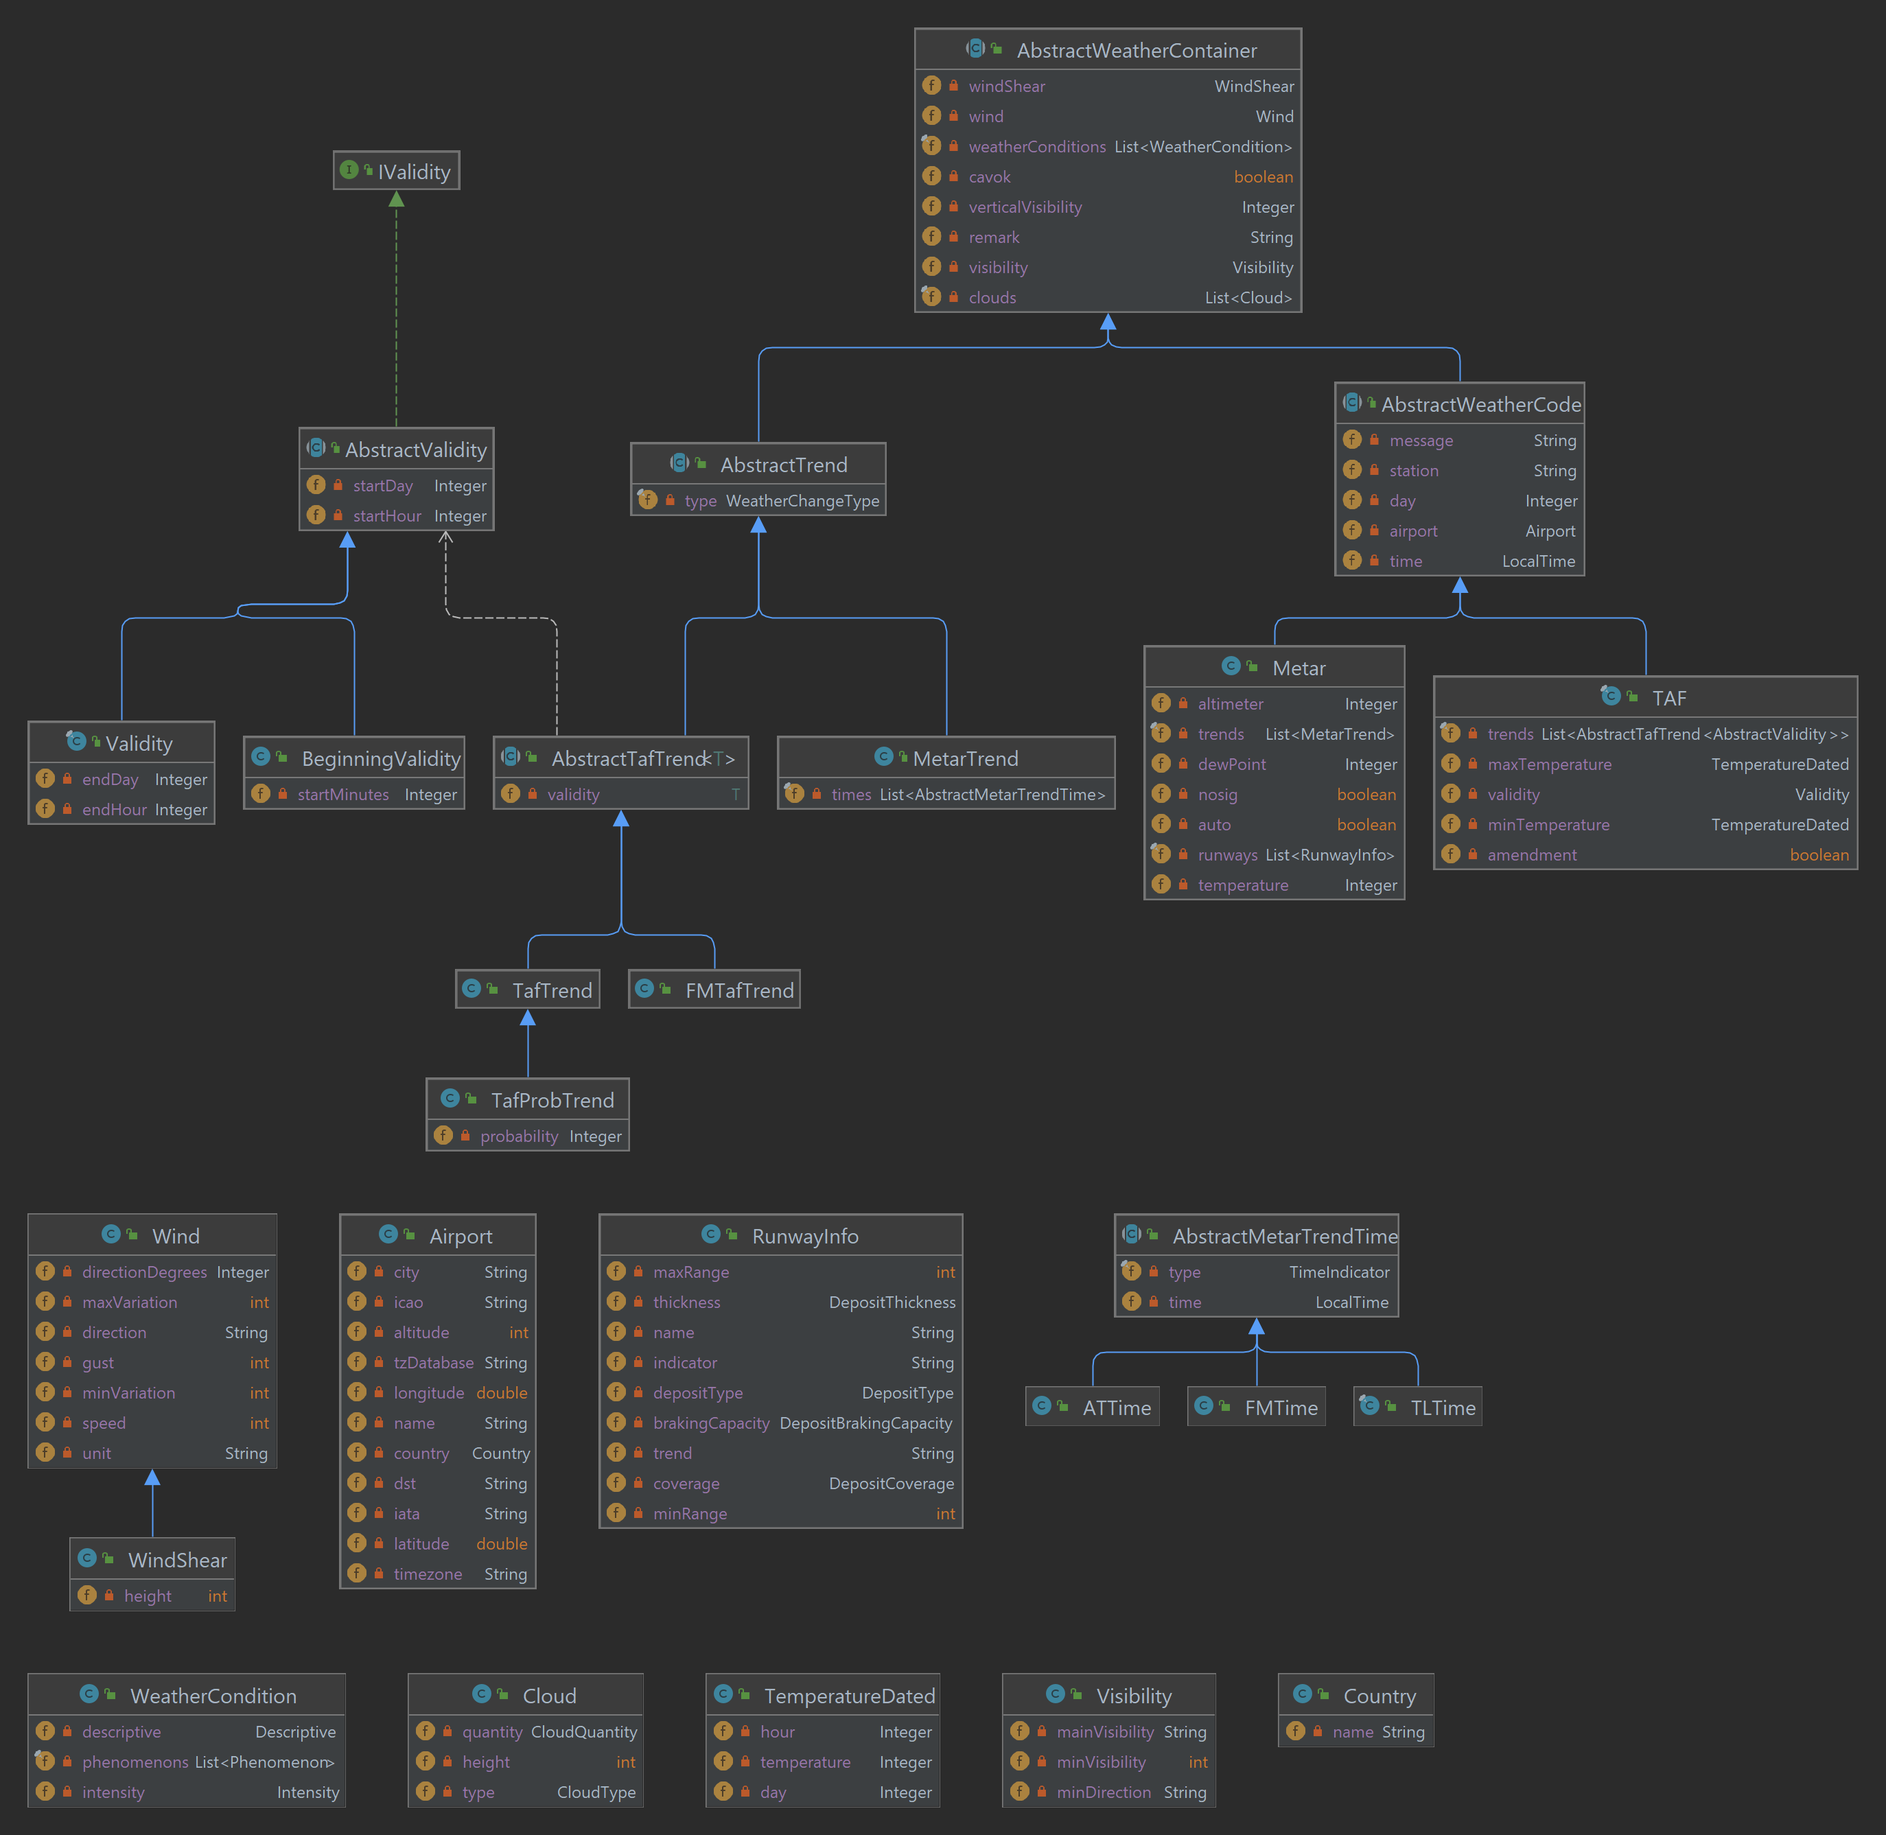
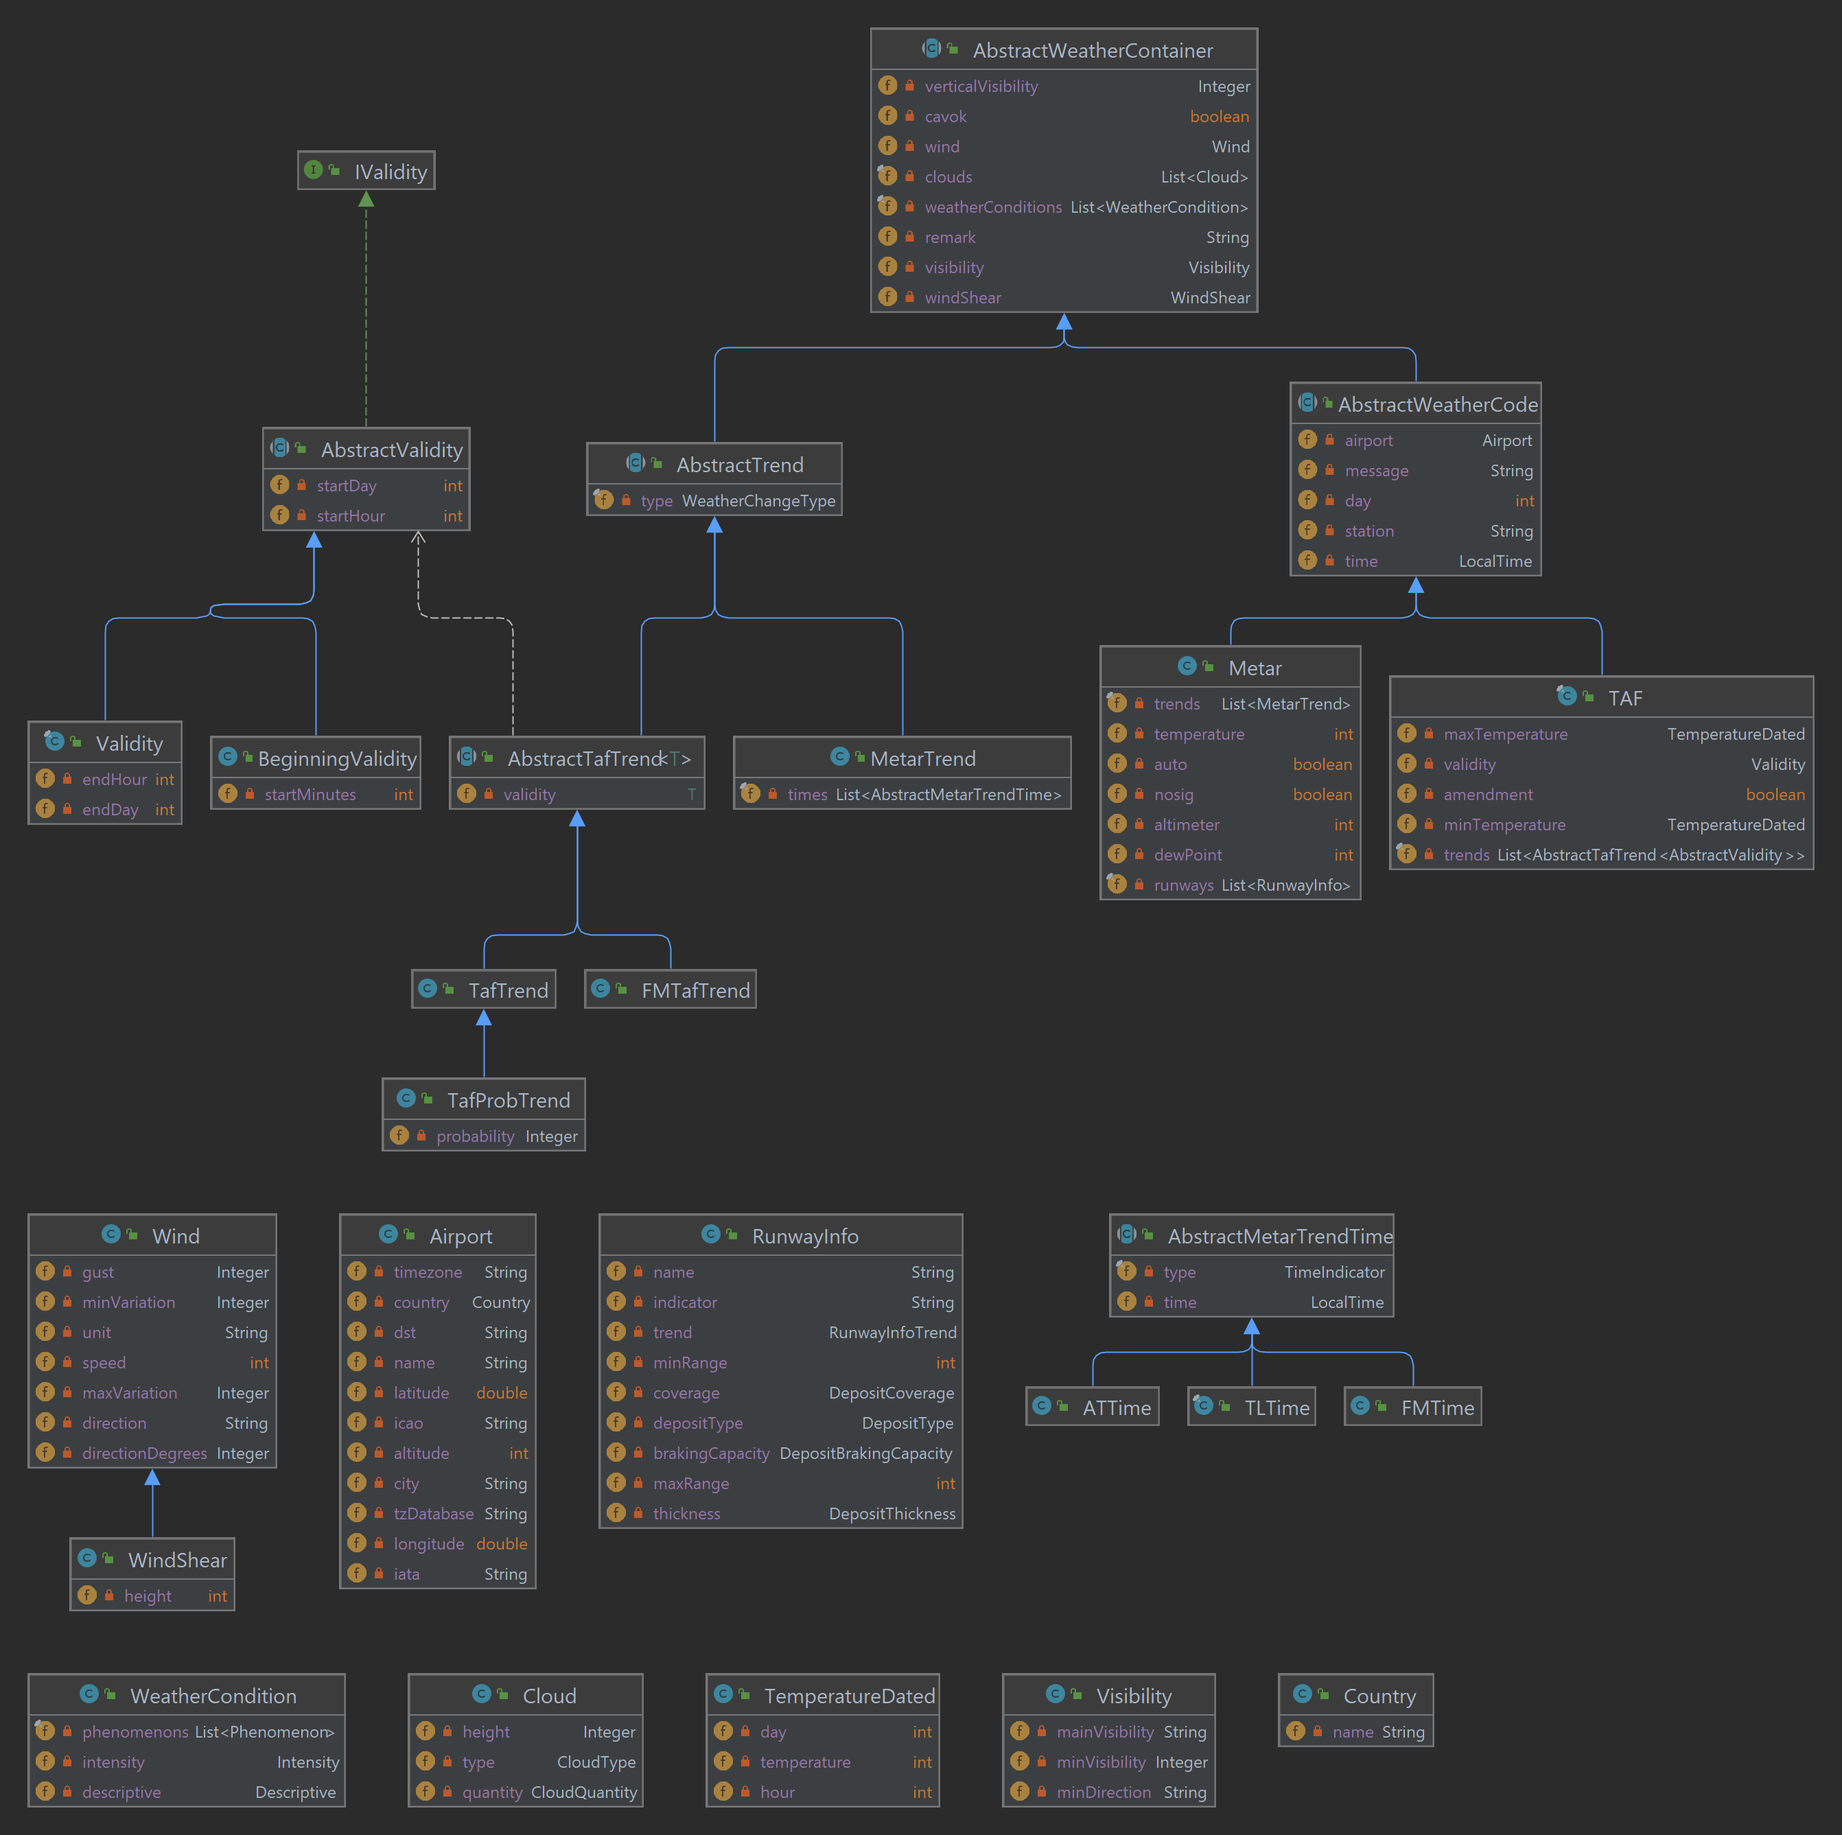
Made RunwayInfo.trend an enum: RunwayInfoTrend.
Removed method Converter.convertTrend

diff --git a/metarParser-parsers/src/test/java/io/github/mivek/command/metar/RunwayCommandTest.java b/metarParser-parsers/src/test/java/io/github/mivek/command/metar/RunwayCommandTest.java
@@ -1,20 +1,21 @@
 package io.github.mivek.command.metar;
 
+import static org.hamcrest.MatcherAssert.assertThat;
+import static org.hamcrest.Matchers.hasSize;
+import static org.junit.jupiter.api.Assertions.assertEquals;
+import static org.junit.jupiter.api.Assertions.assertNotNull;
+import static org.junit.jupiter.api.Assertions.assertNull;
+
 import io.github.mivek.enums.DepositBrakingCapacity;
 import io.github.mivek.enums.DepositCoverage;
 import io.github.mivek.enums.DepositThickness;
 import io.github.mivek.enums.DepositType;
+import io.github.mivek.enums.RunwayInfoTrend;
 import io.github.mivek.internationalization.Messages;
 import io.github.mivek.model.Metar;
 import io.github.mivek.model.RunwayInfo;
 import org.junit.jupiter.api.BeforeEach;
 import org.junit.jupiter.api.Test;
-
-import static org.hamcrest.MatcherAssert.assertThat;
-import static org.hamcrest.Matchers.emptyString;
-import static org.hamcrest.Matchers.hasSize;
-import static org.junit.jupiter.api.Assertions.assertEquals;
-import static org.junit.jupiter.api.Assertions.assertNotNull;
 
 /**
  * @author mivek
@@ -39,7 +40,7 @@ class RunwayCommandTest {
         assertNotNull(ri);
         assertEquals("26", ri.getName());
         assertEquals(600, ri.getMinRange());
-        assertEquals(Messages.getInstance().getString("Converter.U"), ri.getTrend());
+        assertEquals(RunwayInfoTrend.UPRISING, ri.getTrend());
     }
 
     @Test
@@ -54,7 +55,7 @@ class RunwayCommandTest {
         assertEquals("26L", ri.getName());
         assertEquals(550, ri.getMinRange());
         assertEquals(700, ri.getMaxRange());
-        assertEquals(Messages.getInstance().getString("Converter.U"), ri.getTrend());
+        assertEquals(RunwayInfoTrend.UPRISING, ri.getTrend());
     }
 
     @Test
@@ -67,7 +68,7 @@ class RunwayCommandTest {
         assertEquals("01L", r.getName());
         assertEquals(600, r.getMinRange());
         assertEquals(1000, r.getMaxRange());
-        assertThat(r.getTrend(), emptyString());
+        assertNull(r.getTrend());
     }
 
     @Test
@@ -79,7 +80,7 @@ class RunwayCommandTest {
         RunwayInfo r = m.getRunways().get(0);
         assertEquals("01L", r.getName());
         assertEquals(800, r.getMinRange());
-        assertThat(r.getTrend(), emptyString());
+        assertNull(r.getTrend());
     }
 
     @Test

diff --git a/metarParser-entities/src/test/java/io/github/mivek/model/RunwayInfoTest.java b/metarParser-entities/src/test/java/io/github/mivek/model/RunwayInfoTest.java
@@ -4,6 +4,7 @@ import io.github.mivek.enums.DepositBrakingCapacity;
 import io.github.mivek.enums.DepositCoverage;
 import io.github.mivek.enums.DepositThickness;
 import io.github.mivek.enums.DepositType;
+import io.github.mivek.enums.RunwayInfoTrend;
 import io.github.mivek.internationalization.Messages;
 import org.hamcrest.Matchers;
 import org.junit.jupiter.api.Test;
@@ -17,7 +18,7 @@ class RunwayInfoTest {
         RunwayInfo ri = new RunwayInfo();
         ri.setMinRange(300);
         ri.setName("14R");
-        ri.setTrend("rising");
+        ri.setTrend(RunwayInfoTrend.UPRISING);
         ri.setMaxRange(500);
         ri.setDepositType(DepositType.COMPACTED_SNOW);
         ri.setCoverage(DepositCoverage.FROM_11_TO_25);
@@ -30,7 +31,7 @@ class RunwayInfoTest {
         assertThat(des, Matchers.containsString(Messages.getInstance().getString("ToString.name") + "=14R"));
         assertThat(des, Matchers.containsString(Messages.getInstance().getString("ToString.visibility.min") + "=300"));
         assertThat(des, Matchers.containsString(Messages.getInstance().getString("ToString.visibility.max") + "=500"));
-        assertThat(des, Matchers.containsString(Messages.getInstance().getString("ToString.trend") + "=rising"));
+        assertThat(des, Matchers.containsString(Messages.getInstance().getString("ToString.trend") + "=up rising"));
         assertThat(des, Matchers.containsString(Messages.getInstance().getString("ToString.deposit.type") + "=" + Messages.getInstance().getString("DepositType.COMPACTED_SNOW")));
         assertThat(des, Matchers.containsString(Messages.getInstance().getString("ToString.deposit.coverage") + "=" + Messages.getInstance().getString("DepositCoverage.FROM_11_TO_25")));
         assertThat(des, Matchers.containsString(Messages.getInstance().getString("ToString.deposit.thickness") + "=" + Messages.getInstance().getString("DepositThickness.THICKNESS_15")));

diff --git a/metarParser-parsers/src/main/java/io/github/mivek/command/metar/RunwayCommand.java b/metarParser-parsers/src/main/java/io/github/mivek/command/metar/RunwayCommand.java
@@ -4,6 +4,7 @@ import io.github.mivek.enums.DepositBrakingCapacity;
 import io.github.mivek.enums.DepositCoverage;
 import io.github.mivek.enums.DepositThickness;
 import io.github.mivek.enums.DepositType;
+import io.github.mivek.enums.RunwayInfoTrend;
 import io.github.mivek.model.Metar;
 import io.github.mivek.model.RunwayInfo;
 import io.github.mivek.utils.Converter;
@@ -99,14 +100,14 @@ public final class RunwayCommand implements Command {
             ri.setName(matches[1]);
             ri.setIndicator(Converter.convertIndicator(matches[2]));
             ri.setMinRange(Integer.parseInt(matches[3]));
-            ri.setTrend(Converter.convertTrend(matches[4]));
+            ri.setTrend(RunwayInfoTrend.get(matches[4]));
             metar.addRunwayInfo(ri);
         } else if (Regex.find(RUNWAY_MAX_RANGE_REGEX, part)) {
             matches = Regex.pregMatch(RUNWAY_MAX_RANGE_REGEX, part);
             ri.setName(matches[1]);
             ri.setMinRange(Integer.parseInt(matches[2]));
             ri.setMaxRange(Integer.parseInt(matches[3]));
-            ri.setTrend(Converter.convertTrend(matches[4]));
+            ri.setTrend(RunwayInfoTrend.get(matches[4]));
             metar.addRunwayInfo(ri);
         }
     }

diff --git a/metarParser-entities/src/main/java/io/github/mivek/model/RunwayInfo.java b/metarParser-entities/src/main/java/io/github/mivek/model/RunwayInfo.java
@@ -4,6 +4,7 @@ import io.github.mivek.enums.DepositBrakingCapacity;
 import io.github.mivek.enums.DepositCoverage;
 import io.github.mivek.enums.DepositThickness;
 import io.github.mivek.enums.DepositType;
+import io.github.mivek.enums.RunwayInfoTrend;
 import io.github.mivek.internationalization.Messages;
 import org.apache.commons.lang3.builder.ToStringBuilder;
 
@@ -22,7 +23,7 @@ public class RunwayInfo {
     /** Indicator on the visual range: either less than or greater than. */
     private String indicator;
     /** The tread. */
-    private String trend;
+    private RunwayInfoTrend trend;
     /** The type of deposit. */
     private DepositType depositType;
     /** The percentage of coverage. */
@@ -105,7 +106,7 @@ public class RunwayInfo {
      *
      * @return the trend.
      */
-    public String getTrend() {
+    public RunwayInfoTrend getTrend() {
         return trend;
     }
 
@@ -114,7 +115,7 @@ public class RunwayInfo {
      *
      * @param trend Trend to set.
      */
-    public void setTrend(final String trend) {
+    public void setTrend(final RunwayInfoTrend trend) {
         this.trend = trend;
     }
 

diff --git a/metarParser-entities/src/main/java/io/github/mivek/enums/RunwayInfoTrend.java b/metarParser-entities/src/main/java/io/github/mivek/enums/RunwayInfoTrend.java
@@ -1,0 +1,43 @@
+package io.github.mivek.enums;
+
+import io.github.mivek.internationalization.Messages;
+import java.util.Arrays;
+
+/**
+ * This class contains the possible trends for a RunwayInfo.
+ * @author Jean-Kevin KPADEY
+ */
+public enum RunwayInfoTrend {
+  /** Uprising trend. */
+  UPRISING("U", "U"),
+  /** Decreasing trend. */
+  DECREASING("D", "D"),
+  /** No significant change trend. */
+  NO_SIGNIFICANT_CHANGE("N", "NSC");
+
+  /** Shortcut of the trend. */
+  private final String shortcut;
+  /** Translation key. */
+  private final String key;
+
+  /**
+   * Constructor.
+   * @param shortcut in metar code.
+   * @param key for translation.
+   */
+  RunwayInfoTrend(final String shortcut, final String key) {
+    this.shortcut = shortcut;
+    this.key = key;
+  }
+
+  @Override
+  public String toString() {
+    return Messages.getInstance().getString("Converter." + key);
+  }
+
+  public static RunwayInfoTrend get(final String input) {
+    return Arrays.stream(RunwayInfoTrend.values())
+        .filter(trend -> trend.shortcut.equals(input))
+        .findFirst().orElse(null);
+  }
+}

diff --git a/metarParser-entities/src/main/java/io/github/mivek/enums/Intensity.java b/metarParser-entities/src/main/java/io/github/mivek/enums/Intensity.java
@@ -1,6 +1,7 @@
 package io.github.mivek.enums;
 
 import io.github.mivek.internationalization.Messages;
+import java.util.Arrays;
 
 /**
  * Enumeration for indicator.
@@ -51,11 +52,9 @@ public enum Intensity {
      * @throws IllegalArgumentException error if not found.
      */
     public static Intensity getEnum(final String value) {
-        for (Intensity v : values()) {
-            if (v.getShortcut().equalsIgnoreCase(value)) {
-                return v;
-            }
-        }
-        throw new IllegalArgumentException();
+        return Arrays.stream(Intensity.values())
+            .filter(intensity -> intensity.shortcut.equalsIgnoreCase(value))
+            .findFirst()
+            .orElseThrow(IllegalArgumentException::new);
     }
 }

diff --git a/metarParser-commons/src/main/java/io/github/mivek/utils/Converter.java b/metarParser-commons/src/main/java/io/github/mivek/utils/Converter.java
@@ -67,20 +67,6 @@ public final class Converter {
         }
     }
 
-    /**
-     * Converts the trend of clouds.
-     *
-     * @param input Single character string representing the trend.
-     * @return The signification of the single character.
-     */
-    public static String convertTrend(final String input) {
-        if ("U".equals(input) || "D".equals(input)) {
-            return Messages.getInstance().getString("Converter." + input);
-        } else if ("N".equals(input)) {
-            return Messages.getInstance().getString("Converter.NSC");
-        }
-        return "";
-    }
 
     /**
      * Converts the indicator for the runway visual range.

diff --git a/metarParser-commons/src/test/java/io/github/mivek/utils/ConverterTest.java b/metarParser-commons/src/test/java/io/github/mivek/utils/ConverterTest.java
@@ -15,14 +15,6 @@ class ConverterTest {
     }
 
     @Test
-    void testConvertTrend() {
-        assertEquals(Messages.getInstance().getString("Converter.U"), Converter.convertTrend("U"));
-        assertEquals(Messages.getInstance().getString("Converter.D"), Converter.convertTrend("D"));
-        assertEquals(Messages.getInstance().getString("Converter.NSC"), Converter.convertTrend("N"));
-        assertEquals("", Converter.convertTrend("Random string"));
-    }
-
-    @Test
     void testInchesMercuryToHPascal() {
         assertEquals(1013.25, Converter.inchesMercuryToHPascal(29.92), 0.1);
     }

diff --git a/metarParser-entities/src/test/java/io/github/mivek/enums/RunwayInfoTrendTest.java b/metarParser-entities/src/test/java/io/github/mivek/enums/RunwayInfoTrendTest.java
@@ -1,0 +1,25 @@
+package io.github.mivek.enums;
+
+import static org.junit.jupiter.api.Assertions.*;
+
+import org.junit.jupiter.api.Test;
+
+/**
+ * @author Jean-Kevin KPADEY
+ */
+class RunwayInfoTrendTest {
+
+  @Test
+  void testSize() {
+    assertEquals(3, RunwayInfoTrend.values().length);
+  }
+
+  @Test
+  void testGetValid() {
+    assertEquals(RunwayInfoTrend.UPRISING, RunwayInfoTrend.get("U"));
+  }
+
+  @Test
+  void testGetInvalid() {
+    assertNull(RunwayInfoTrend.get("T"));}
+}

diff --git a/metarParser-parsers/src/test/java/io/github/mivek/parser/MetarParserTest.java b/metarParser-parsers/src/test/java/io/github/mivek/parser/MetarParserTest.java
@@ -61,7 +61,7 @@ class MetarParserTest extends AbstractWeatherCodeParserTest<Metar> {
         // Check if runways are correctly parsed
         assertEquals("27L", m.getRunways().get(0).getName());
         assertEquals(375, m.getRunways().get(0).getMinRange());
-        assertEquals(Messages.getInstance().getString("Converter.NSC"), m.getRunways().get(0).getTrend());
+        assertEquals(RunwayInfoTrend.NO_SIGNIFICANT_CHANGE, m.getRunways().get(0).getTrend());
     }
 
     @Test

diff --git a/README.md b/README.md
@@ -57,17 +57,18 @@ When updating classes, regenerate the diagrams and save the images in the projec
 
 The application contains numerous enumerations to represent data.
 
--   CloudType: to represent the type of cloud.
--   CloudQuantity: to represent the amount of clouds.
--   Intensity: to represent the intensity of a meteorological phenomenon.
--   Descriptive: to represent the description of a meteorological phenomenon.
--   DepositType: to represent the type of deposit on a runway.
--   DepositCoverage: to represent the percentage of the runway covered by the deposit.
--   DepositThickness: to represent the thickness of the deposit.
--   DepositBrakingCapacity: to represent the braking capacity on the runway.    
--   Phenomenon: to represent a phenomenon.
--   WeatherChangeTime: to represent a trend.
--   TimeIndicator: to represent the time of the trend.
+- CloudType: to represent the type of cloud.
+- CloudQuantity: to represent the amount of clouds.
+- Intensity: to represent the intensity of a meteorological phenomenon.
+- Descriptive: to represent the description of a meteorological phenomenon.
+- DepositType: to represent the type of deposit on a runway.
+- DepositCoverage: to represent the percentage of the runway covered by the deposit.
+- DepositThickness: to represent the thickness of the deposit.
+- DepositBrakingCapacity: to represent the braking capacity on the runway.    
+- Phenomenon: to represent a phenomenon.
+- RunwayInfoTrend: to represent the visibility trend on a runway.
+- WeatherChangeTime: to represent a trend.
+- TimeIndicator: to represent the time of the trend.
 
 ### Classes
 
